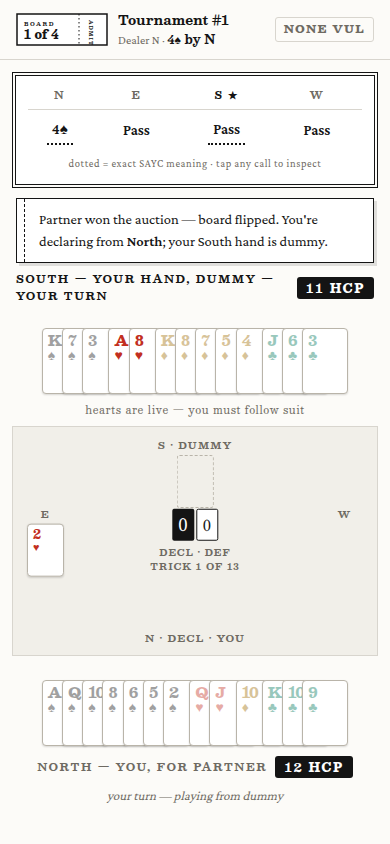
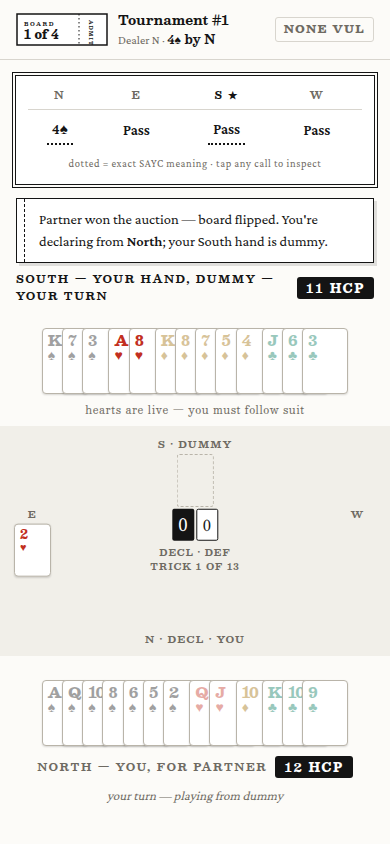
Make the play felt borderless and edge-to-edge; give the dummy rail a white panel
The trick area no longer has a hairline border and stretches flush to
the screen's edges instead of sitting in a 12px gutter. The dummy-rail
(East/West dummy display) now sits on the white --panel surface once
revealed, so it reads as a distinct hand-of-cards element rather than
blending into the cream felt behind it.

diff --git a/web/src/style.css b/web/src/style.css
@@ -1184,8 +1184,7 @@ a.ds-btn-secondary:hover {
 
 /* ---- TrickArea ---- */
 .trick {
-  margin: 4px 12px 0;
-  border: 1px solid var(--surface-line);
+  margin: 4px 0 0;
   background: var(--surface);
   position: relative;
   height: 230px;
@@ -1320,13 +1319,11 @@ a.ds-btn-secondary:hover {
   display: flex;
   flex-direction: column;
   gap: 6px;
-  padding: 10px 0 10px 10px;
-  border-left: 1px solid var(--line);
+  padding: 10px 10px 10px 14px;
+  background: var(--panel);
 }
 .dummy-rail-left {
-  padding: 10px 10px 10px 0;
-  border-left: none;
-  border-right: 1px solid var(--line);
+  padding: 10px 14px 10px 10px;
   order: -1;
 }
 .dummy-rail-head {
@@ -2000,10 +1997,10 @@ a.board-row:hover {
   margin: 12px 12px 0;
 }
 .board-page .trick {
-  margin: 8px 12px 0;
+  margin: 8px 0 0;
 }
 .board-page .play-row {
-  margin: 8px 12px 0;
+  margin: 8px 0 0;
 }
 .board-page .play-row .trick {
   margin: 0;